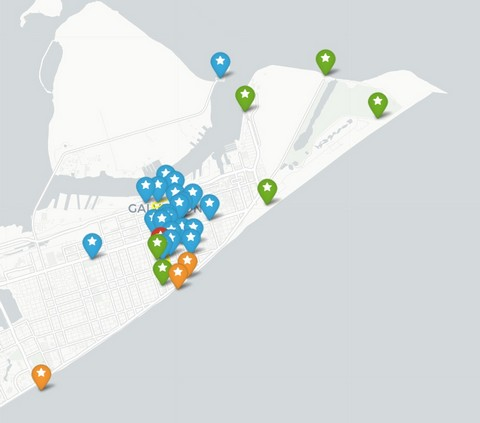
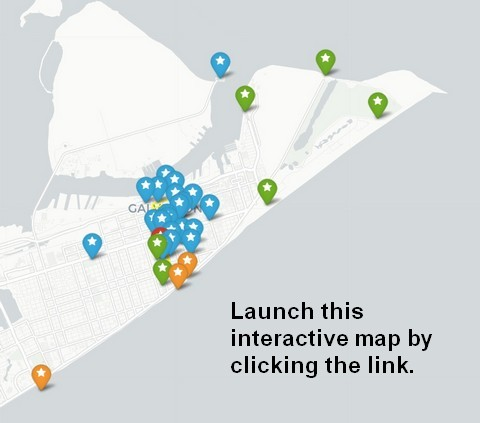
galveston post
rearrange images.

Changed region(s): [[0.4688, 0.7069, 0.9062, 0.8913]]

diff --git a/content/posts/travel-galveston.md b/content/posts/travel-galveston.md
@@ -18,7 +18,6 @@ Our family spring trip this year will be to Galveston, Texas for Easter weekend.
 ![Our Air B&B](/images/travel/galveston/google-street-view-320px.jpg#floatright)
 As we settled on Galveston, I started searching for travel library books, reading blogs, and listening to Galveston-related podcasts. I found some real jewels which I'll share here. Using these resources, and after reserving our accomodations, I built another web-map of attractions we may wish to see during our stay. The points on this map are pulled from a Google Sheet.
 
-![Tourist Attractions Map](/images/travel/galveston/galveston-pin-map_tn.jpg#floatleft)
 **View my [Interactive Map](https://howisjames.github.io/maps/galveston/)**
 
 > __LEGEND__
@@ -26,6 +25,8 @@ As we settled on Galveston, I started searching for travel library books, readin
 > - **Blue** = historic or cultural attraction
 > - **Green** = park or outdoor attraction
 > - **Orange** = eateries
+
+![Tourist Attractions Map](/images/travel/galveston/galveston-pin-map_tn.jpg)
 
 ## Researching History & Culture
 
